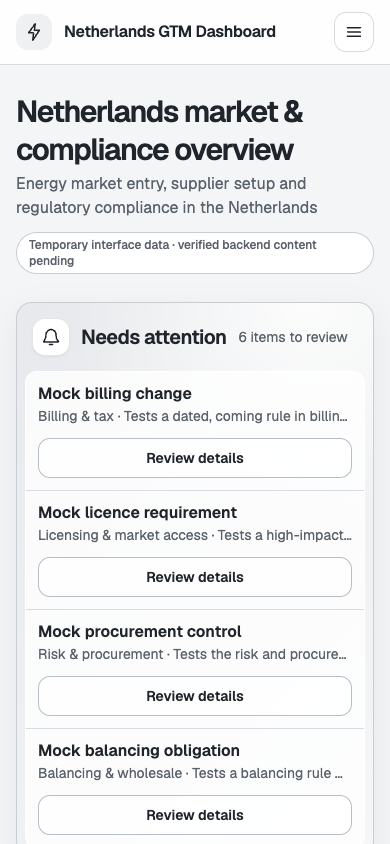
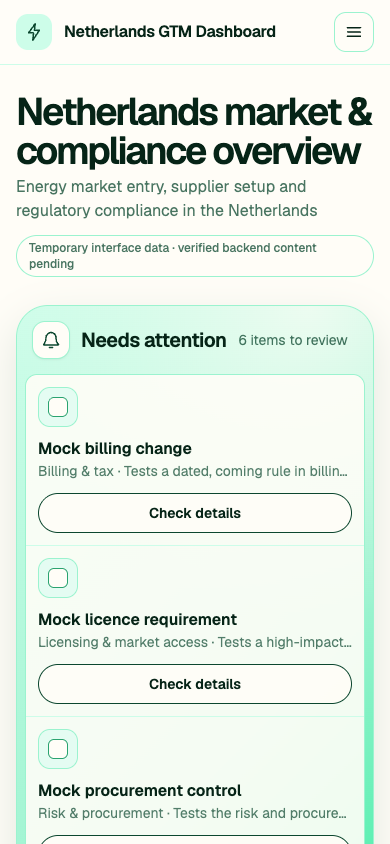
Restore trawa styling on dashboard wireframe

diff --git a/components/market-rules-dashboard.tsx b/components/market-rules-dashboard.tsx
@@ -79,7 +79,7 @@ function SelectFilter<T extends string>({
     <label className="relative min-w-40 flex-1 sm:flex-none">
       <span className="sr-only">{label}</span>
       <select
-        className="h-10 w-full appearance-none rounded-xl border border-[#9BF3CF] bg-[#FFFDF7] pl-3 pr-9 text-sm font-medium text-[#062417] outline-none transition hover:border-[#2AA370] focus:border-[#0C472F] focus:ring-2 focus:ring-[#6EEEBA]/60"
+        className="h-11 w-full appearance-none rounded-full border border-[#9BF3CF] bg-[#FFFDF7] pl-4 pr-10 text-sm font-medium text-[#062417] outline-none transition hover:border-[#2AA370] focus:border-[#0C472F] focus:ring-2 focus:ring-[#6EEEBA]/60"
         value={value}
         onChange={(event) => onChange(event.target.value as FilterValue<T>)}
       >
@@ -90,7 +90,7 @@ function SelectFilter<T extends string>({
           </option>
         ))}
       </select>
-      <ChevronDownIcon className="pointer-events-none absolute right-3 top-3 size-4 text-[#0C472F]" />
+      <ChevronDownIcon className="pointer-events-none absolute right-3.5 top-3.5 size-4 text-[#0C472F]" />
     </label>
   );
 }
@@ -193,6 +193,9 @@ export function MarketRulesDashboard({
   const [status, setStatus] = useState<FilterValue<MarketRuleStatus>>("all");
   const [expandedRule, setExpandedRule] = useState<string | null>(null);
   const [mobileNavigationOpen, setMobileNavigationOpen] = useState(false);
+  const [completedAttentionRules, setCompletedAttentionRules] = useState<Set<string>>(
+    () => new Set(),
+  );
 
   const filteredRules = useMemo(() => {
     const query = search.trim().toLowerCase();
@@ -238,6 +241,10 @@ export function MarketRulesDashboard({
     [rules],
   );
 
+  const remainingAttentionCount = attentionRules.filter(
+    (rule) => !completedAttentionRules.has(rule.id),
+  ).length;
+
   const processSummaries = useMemo(
     () =>
       marketRuleProcesses.map((processName) => {
@@ -277,6 +284,15 @@ export function MarketRulesDashboard({
     });
   }
 
+  function setAttentionRuleCompleted(ruleId: string, completed: boolean) {
+    setCompletedAttentionRules((current) => {
+      const next = new Set(current);
+      if (completed) next.add(ruleId);
+      else next.delete(ruleId);
+      return next;
+    });
+  }
+
   return (
     <div className="min-h-screen bg-[#FFFDF7] text-[#062417]">
       <header className="sticky top-0 z-40 border-b border-[#CDFDE9] bg-[#FFFDF7]/95 backdrop-blur lg:hidden">
@@ -308,14 +324,14 @@ export function MarketRulesDashboard({
             <a href="#prerequisites" className="market-nav-link" onClick={() => setMobileNavigationOpen(false)}>
               <ChecklistIcon className="size-5" /> Prerequisites
             </a>
-            <a href="#processes" className="market-nav-link" onClick={() => setMobileNavigationOpen(false)}>
-              <LayersIcon className="size-5" /> Process coverage
+            <a href="#regional-grid" className="market-nav-link" onClick={() => setMobileNavigationOpen(false)}>
+              <LayersIcon className="size-5" /> Regional grid
             </a>
           </nav>
         ) : null}
       </header>
 
-      <aside className="fixed inset-y-0 left-0 z-30 hidden w-[250px] flex-col border-r border-[#CDFDE9] bg-[#FBF7EB] px-3 py-7 lg:flex">
+      <aside className="palette-wash-sidebar fixed inset-y-0 left-0 z-30 hidden w-[250px] flex-col border-r border-[#CDFDE9] px-3 py-7 lg:flex">
         <a href="#top" className="flex items-center gap-3 px-2">
           <span className="grid size-11 place-items-center rounded-xl bg-[#CDFDE9] text-[#0C472F]">
             <BoltIcon className="size-6" />
@@ -336,8 +352,8 @@ export function MarketRulesDashboard({
           <a href="#prerequisites" className="market-nav-link">
             <ChecklistIcon className="size-5" /> Prerequisites
           </a>
-          <a href="#processes" className="market-nav-link">
-            <LayersIcon className="size-5" /> Process coverage
+          <a href="#regional-grid" className="market-nav-link">
+            <LayersIcon className="size-5" /> Regional grid
           </a>
         </nav>
 
@@ -354,7 +370,7 @@ export function MarketRulesDashboard({
       <main id="top" className="lg:pl-[250px]">
         <div className="mx-auto max-w-[1480px] px-4 pb-16 pt-7 sm:px-7 lg:px-8 lg:pt-5 xl:px-9">
           <header>
-            <h1 className="text-[30px] font-semibold leading-tight tracking-[-0.045em] sm:text-[38px]">
+            <h1 className="max-w-5xl text-[38px] font-semibold leading-[1.02] tracking-[-0.055em] sm:text-[50px]">
               Netherlands market &amp; compliance overview
             </h1>
             <p className="mt-1 text-base text-[#0C472F]/75 sm:text-lg">
@@ -376,7 +392,7 @@ export function MarketRulesDashboard({
                 Needs attention
               </h2>
               <span className="text-sm text-[#0C472F]/75">
-                {attentionRules.length} {attentionRules.length === 1 ? "item" : "items"} to review
+                {remainingAttentionCount} {remainingAttentionCount === 1 ? "item" : "items"} to review
               </span>
             </div>
 
@@ -384,19 +400,30 @@ export function MarketRulesDashboard({
               {attentionRules.slice(0, 4).map((rule) => (
                 <div
                   key={rule.id}
-                  className="grid gap-3 border-b border-[#CDFDE9] px-3 py-3 last:border-b-0 sm:grid-cols-[44px_1fr_auto] sm:items-center"
+                  className={`grid gap-3 border-b border-[#CDFDE9] px-3 py-3 transition last:border-b-0 sm:grid-cols-[44px_1fr_auto] sm:items-center ${completedAttentionRules.has(rule.id) ? "bg-[#E4FCF2]/70" : ""}`}
                 >
-                  <span className="hidden size-10 place-items-center rounded-xl border border-[#9BF3CF] bg-[#E4FCF2] text-[#0C472F] sm:grid">
-                    {rule.status === "coming" ? <ClockIcon className="size-5" /> : <CheckIcon className="size-5" />}
-                  </span>
+                  <label className="grid size-10 cursor-pointer place-items-center rounded-xl border border-[#9BF3CF] bg-[#E4FCF2] text-[#0C472F] transition hover:border-[#2AA370]">
+                    <span className="sr-only">Mark {rule.title} complete</span>
+                    <input
+                      type="checkbox"
+                      className="peer sr-only"
+                      checked={completedAttentionRules.has(rule.id)}
+                      onChange={(event) =>
+                        setAttentionRuleCompleted(rule.id, event.target.checked)
+                      }
+                    />
+                    <span className="grid size-5 place-items-center rounded-md border border-[#2AA370] bg-[#FFFDF7] text-transparent transition peer-checked:bg-[#0C472F] peer-checked:text-white">
+                      <CheckIcon className="size-3.5" />
+                    </span>
+                  </label>
                   <span className="min-w-0">
-                    <span className="block font-semibold leading-5">{rule.title}</span>
+                    <span className={`block font-semibold leading-5 ${completedAttentionRules.has(rule.id) ? "text-[#0C472F]/60 line-through" : ""}`}>{rule.title}</span>
                     <span className="mt-0.5 block truncate text-sm text-[#0C472F]/70">
                       {processLabels[rule.process]} · {rule.impact_text}
                     </span>
                   </span>
                   <button type="button" className="market-outline-button" onClick={() => showRule(rule)}>
-                    Review details
+                    Check details
                   </button>
                 </div>
               ))}
@@ -404,7 +431,9 @@ export function MarketRulesDashboard({
           </section>
 
           <section id="prerequisites" className="mt-8 scroll-mt-20" aria-labelledby="prerequisites-title">
-            <h2 id="prerequisites-title" className="market-section-title">Supplier prerequisites</h2>
+            <div className="market-section-banner">
+              <h2 id="prerequisites-title" className="market-section-title">Supplier prerequisites</h2>
+            </div>
             <div className="market-table-shell mt-3 overflow-x-auto">
               <table className="w-full min-w-[820px] border-collapse text-left text-sm">
                 <thead>
@@ -419,7 +448,7 @@ export function MarketRulesDashboard({
                 <tbody>
                   {prerequisiteRules.map((rule) => (
                     <tr key={rule.id}>
-                      <td className="font-medium text-[#20252b]">{rule.title}</td>
+                      <td className="font-medium text-[#062417]">{rule.title}</td>
                       <td>{processLabels[rule.process]}</td>
                       <td><StatusPill status={rule.status} /></td>
                       <td>
@@ -427,7 +456,7 @@ export function MarketRulesDashboard({
                           href={rule.sources[0]?.url}
                           target="_blank"
                           rel="noreferrer"
-                          className="inline-flex items-center gap-1.5 font-medium underline decoration-[#b7bec6] underline-offset-4 hover:decoration-[#20252b]"
+                          className="inline-flex items-center gap-1.5 font-medium text-[#0C472F] underline decoration-[#6EEEBA] underline-offset-4 hover:decoration-[#0C472F]"
                         >
                           {rule.sources[0]?.label ?? "No source"}
                           <ArrowUpRightIcon className="size-3.5" />
@@ -442,10 +471,10 @@ export function MarketRulesDashboard({
           </section>
 
           <section id="rules" className="mt-8 scroll-mt-20" aria-labelledby="rules-title">
-            <div className="flex flex-wrap items-end justify-between gap-3">
+            <div className="market-section-banner flex flex-wrap items-end justify-between gap-3">
               <div>
                 <h2 id="rules-title" className="market-section-title">Market rules radar</h2>
-                <p aria-live="polite" className="mt-1 text-sm text-[#6d7580]">
+                <p aria-live="polite" className="mt-1 text-sm text-[#0C472F]/70">
                   Showing {filteredRules.length} of {rules.length} rules
                 </p>
               </div>
@@ -456,16 +485,16 @@ export function MarketRulesDashboard({
               ) : null}
             </div>
 
-            <div className="mt-3 flex flex-col gap-2 rounded-t-2xl border border-b-0 border-[#c8cdd3] bg-[#eef0f2] p-3 xl:flex-row">
+            <div className="mt-3 flex flex-col gap-2 rounded-t-[22px] border border-b-0 border-[#9BF3CF] bg-[#CDFDE9] p-3 xl:flex-row">
               <label className="relative min-w-0 flex-1">
                 <span className="sr-only">Search rules</span>
-                <SearchIcon className="absolute left-3 top-2.5 size-5 text-[#6d7580]" />
+                <SearchIcon className="absolute left-4 top-3 size-5 text-[#2AA370]" />
                 <input
                   type="search"
                   value={search}
                   onChange={(event) => setSearch(event.target.value)}
                   placeholder="Search rules, requirements or steps"
-                  className="h-10 w-full rounded-xl border border-[#d7dce2] bg-white pl-10 pr-3 text-sm outline-none placeholder:text-[#8b929b] focus:border-[#20252b] focus:ring-2 focus:ring-[#20252b]/10"
+                  className="h-11 w-full rounded-full border border-[#9BF3CF] bg-[#FFFDF7] pl-11 pr-4 text-sm text-[#062417] outline-none placeholder:text-[#2AA370]/70 focus:border-[#0C472F] focus:ring-2 focus:ring-[#6EEEBA]/60"
                 />
               </label>
               <div className="flex flex-wrap gap-2">
@@ -496,26 +525,26 @@ export function MarketRulesDashboard({
               </div>
             </div>
 
-            <div className="overflow-hidden rounded-b-2xl border border-[#c8cdd3] bg-white">
+            <div className="overflow-hidden rounded-b-[22px] border border-[#9BF3CF] bg-[#FFFDF7] shadow-[0_12px_32px_rgba(12,71,47,0.08)]">
               {filteredRules.length ? (
                 filteredRules.map((rule) => {
                   const expanded = expandedRule === rule.id;
                   return (
-                    <article key={rule.id} data-rule-id={rule.id} className="border-b border-[#d7dce2] last:border-b-0">
+                    <article key={rule.id} data-rule-id={rule.id} className="border-b border-[#CDFDE9] last:border-b-0">
                       <button
                         type="button"
                         aria-expanded={expanded}
-                        className="grid w-full gap-3 px-4 py-4 text-left transition hover:bg-[#f7f8f9] md:grid-cols-[minmax(250px,1.35fr)_minmax(170px,0.8fr)_auto_auto_32px] md:items-center md:px-5"
+                        className="grid w-full gap-3 px-4 py-4 text-left transition hover:bg-[#E4FCF2] md:grid-cols-[minmax(250px,1.35fr)_minmax(170px,0.8fr)_auto_auto_32px] md:items-center md:px-5"
                         onClick={() => setExpandedRule(expanded ? null : rule.id)}
                       >
                         <span className="min-w-0">
                           <span className="block font-semibold leading-5">{rule.title}</span>
-                          <span className="mt-1 block truncate text-sm text-[#6d7580]">{rule.impact_text}</span>
+                          <span className="mt-1 block truncate text-sm text-[#0C472F]/70">{rule.impact_text}</span>
                         </span>
-                        <span className="text-sm text-[#454c55]">{processLabels[rule.process]}</span>
+                        <span className="text-sm text-[#0C472F]">{processLabels[rule.process]}</span>
                         <StatusPill status={rule.status} />
                         <ImpactPill impact={rule.impact} />
-                        <span className={`grid size-8 place-items-center rounded-lg border border-[#d7dce2] bg-white transition ${expanded ? "rotate-180" : ""}`}>
+                        <span className={`grid size-8 place-items-center rounded-full border border-[#9BF3CF] bg-[#FFFDF7] text-[#0C472F] transition ${expanded ? "rotate-180 bg-[#CDFDE9]" : ""}`}>
                           <ChevronDownIcon className="size-4" />
                         </span>
                       </button>
@@ -526,11 +555,11 @@ export function MarketRulesDashboard({
               ) : (
                 <div className="grid min-h-64 place-items-center px-6 text-center">
                   <div>
-                    <span className="mx-auto grid size-11 place-items-center rounded-xl bg-[#eef0f2]">
+                    <span className="mx-auto grid size-11 place-items-center rounded-2xl bg-[#CDFDE9] text-[#0C472F]">
                       <SearchIcon className="size-5" />
                     </span>
                     <h3 className="mt-4 font-semibold">No matching rules</h3>
-                    <p className="mt-1 text-sm text-[#6d7580]">Change or clear the filters to see all rules.</p>
+                    <p className="mt-1 text-sm text-[#0C472F]/70">Change or clear the filters to see all rules.</p>
                     <button type="button" className="market-outline-button mt-4" onClick={clearFilters}>Clear filters</button>
                   </div>
                 </div>
@@ -538,9 +567,11 @@ export function MarketRulesDashboard({
             </div>
           </section>
 
-          <section id="processes" className="mt-8 scroll-mt-20" aria-labelledby="processes-title">
-            <h2 id="processes-title" className="market-section-title">NL market process coverage</h2>
-            <p className="mt-1 text-sm text-[#6d7580]">Process map</p>
+          <section id="regional-grid" className="mt-8 scroll-mt-20" aria-labelledby="regional-grid-title">
+            <div className="market-section-banner">
+              <h2 id="regional-grid-title" className="market-section-title">Regional grid layer</h2>
+              <p className="mt-1 text-sm text-[#0C472F]/70">Process coverage by market function</p>
+            </div>
             <div className="market-table-shell mt-3 overflow-x-auto">
               <table className="w-full min-w-[760px] border-collapse text-left text-sm">
                 <thead>
@@ -555,7 +586,7 @@ export function MarketRulesDashboard({
                 <tbody>
                   {processSummaries.map((summary) => (
                     <tr key={summary.name}>
-                      <td className="font-medium text-[#20252b]">{processLabels[summary.name]}</td>
+                      <td className="font-medium text-[#062417]">{processLabels[summary.name]}</td>
                       <td>{processQuestions[summary.name]}</td>
                       <td>{summary.count}</td>
                       <td>{summary.highCount}</td>

diff --git a/app/globals.css b/app/globals.css
@@ -55,7 +55,7 @@ html {
   display: flex;
   align-items: center;
   gap: 0.75rem;
-  border-radius: 0.75rem;
+  border-radius: 0.9rem;
   padding: 0.75rem 1rem;
   color: var(--green-800);
   transition:
@@ -76,7 +76,7 @@ html {
 
 .market-panel {
   border: 1px solid var(--green-200);
-  border-radius: 1rem;
+  border-radius: 2rem;
   background:
     radial-gradient(circle at 82% 0%, rgb(255 253 247 / 75%) 0, transparent 38%),
     linear-gradient(135deg, var(--green-100) 0%, var(--green-200) 58%, var(--green-400) 100%);
@@ -93,11 +93,12 @@ html {
 
 .market-section-banner {
   border: 1px solid var(--green-200);
-  border-radius: 0.9rem;
+  border-radius: 1.4rem;
   background:
     radial-gradient(circle at 90% 0%, rgb(255 253 247 / 68%) 0, transparent 38%),
     linear-gradient(120deg, var(--green-100) 0%, var(--green-50) 68%, var(--cream-50) 100%);
-  padding: 0.9rem 1rem;
+  padding: 1rem 1.25rem;
+  box-shadow: 0 10px 28px rgb(12 71 47 / 7%);
 }
 
 .market-kicker {
@@ -112,7 +113,7 @@ html {
 .market-outline-button {
   min-height: 2.5rem;
   border: 1px solid var(--green-800);
-  border-radius: 0.75rem;
+  border-radius: 999px;
   background: rgb(255 253 247 / 88%);
   padding: 0.5rem 1.1rem;
   font-size: 0.875rem;
@@ -139,7 +140,7 @@ html {
 
 .market-table-shell {
   border: 1px solid var(--green-200);
-  border-radius: 0.75rem;
+  border-radius: 1.4rem;
   background: var(--cream-50);
   box-shadow: 0 8px 24px rgb(12 71 47 / 6%);
 }
@@ -181,7 +182,13 @@ html {
 }
 
 .palette-wash-sidebar {
-  background: linear-gradient(180deg, var(--green-50) 0%, #ffffff 54%, var(--green-100) 100%);
+  background: linear-gradient(
+    180deg,
+    var(--green-50) 0%,
+    var(--cream-50) 48%,
+    var(--cream-100) 72%,
+    var(--green-100) 100%
+  );
 }
 
 .green-panel-shadow {
